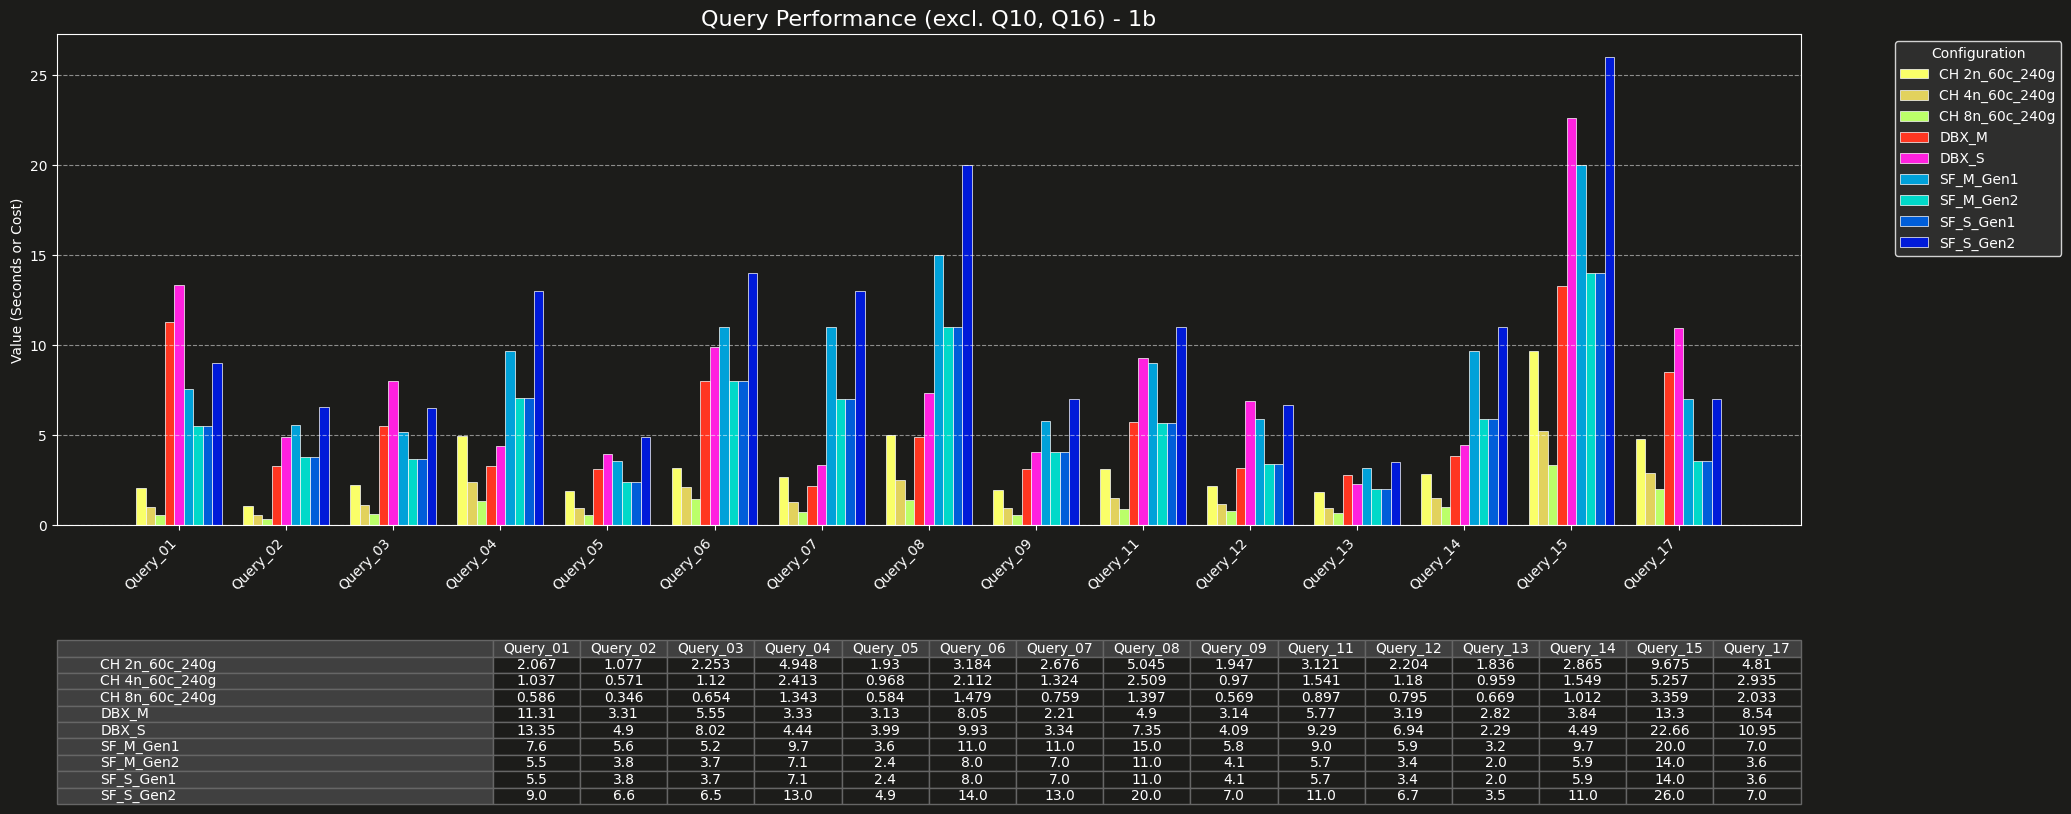
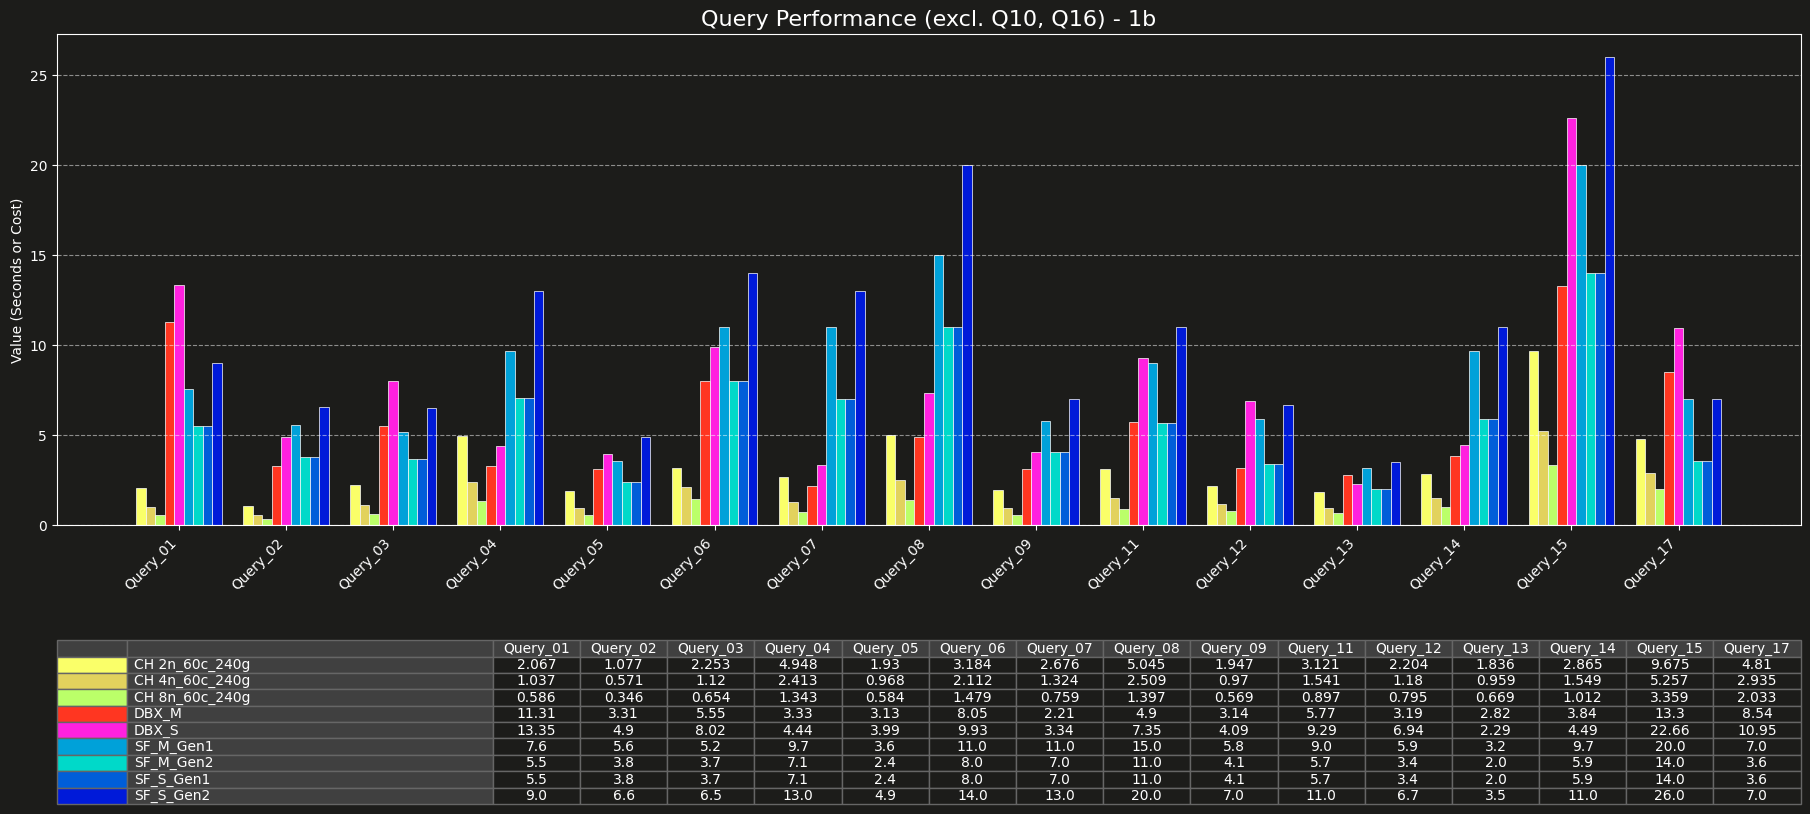
legend inside table

diff --git a/charts/main.py b/charts/main.py
@@ -372,12 +372,12 @@ def generate_chart_and_table(df_filtered, title, output_filename_base, queries_t
     ax_chart.tick_params(axis='y', colors='white')
 
     ax_chart.set_title(title, fontsize=16, color='white')
-    legend = ax_chart.legend(title='Configuration', bbox_to_anchor=(1.05, 1), loc='upper left')
-    legend.get_title().set_color('white')
-    for text in legend.get_texts():
-        text.set_color('white')
-    legend.get_frame().set_facecolor('#333333') # Darker background for legend box
-    legend.get_frame().set_edgecolor('white')
+    # legend = ax_chart.legend(title='Configuration', bbox_to_anchor=(1.05, 1), loc='upper left') # Legend removed
+    # legend.get_title().set_color('white')
+    # for text in legend.get_texts():
+    #     text.set_color('white')
+    # legend.get_frame().set_facecolor('#333333') # Darker background for legend box
+    # legend.get_frame().set_edgecolor('white')
 
     # --- Table creation (uses a new axis area) ---
     ax_table_area = fig.add_subplot(gs[1]) # Axis for the table
@@ -393,44 +393,78 @@ def generate_chart_and_table(df_filtered, title, output_filename_base, queries_t
     row_labels = pivot_df.index.tolist()
     col_labels = pivot_df.columns.tolist()
 
-    # Add a blank column header for the row labels column
-    table_col_labels_with_header = [''] + col_labels 
+    # Add column headers: one for color swatch (empty), one for row labels (empty), then data col_labels
+    table_col_labels_with_header = ['', ''] + col_labels
 
     the_table = Table(ax_table_area, bbox=[0, 0, 1, 1]) # Table fills its allocated subplot area
     the_table.auto_set_font_size(False)
     the_table.set_fontsize(9)
 
     num_table_rows = len(row_labels) + 1 # +1 for header
-    num_table_cols = len(table_col_labels_with_header)
+    # num_table_cols = len(table_col_labels_with_header) # Recalculate based on new structure
 
     cell_height = 1.0 / num_table_rows
-    # Define widths for columns - give more space to row labels if needed
-    # Example: first column (row labels) gets 20% of width, rest share remaining 80%
-    col_widths = [0.25] + [(0.75 / len(col_labels))] * len(col_labels) 
-    if not col_labels: # Handle case with no data columns (e.g. for total charts)
-        col_widths = [1.0]
+    
+    # Define widths for columns:
+    swatch_col_width = 0.04  # Narrow column for color swatch
+    label_name_col_width = 0.21 # Width for the hardware_config name
+    num_data_cols = len(col_labels)
+    
+    if num_data_cols > 0:
+        remaining_width_for_data = 1.0 - swatch_col_width - label_name_col_width
+        data_col_individual_width = remaining_width_for_data / num_data_cols
+        col_widths = [swatch_col_width, label_name_col_width] + [data_col_individual_width] * num_data_cols
+    elif num_data_cols == 0 and ('total query' in title.lower()): # Total charts have one data column conceptually, but pivot_df might be empty of data cols
+        # For 'Total' charts, the single value is effectively the data. The 'col_labels' might be ['Total_Cost'] or ['Total_Performance']
+        # If pivot_df.columns was used for col_labels, it might be 1. Let's assume it's 1 data column for totals.
+        remaining_width_for_data = 1.0 - swatch_col_width - label_name_col_width
+        # Ensure remaining_width_for_data is not negative if label_name_col_width is too large
+        data_col_individual_width = max(0, remaining_width_for_data) 
+        col_widths = [swatch_col_width, label_name_col_width, data_col_individual_width]
+    else: # No data columns at all, e.g. if something went wrong or no queries_to_plot
+        col_widths = [swatch_col_width, 1.0 - swatch_col_width] # Swatch and full width for label name
+
+    num_table_cols = len(col_widths) # Update based on actual col_widths array
 
     table_header_color = '#404040' # Dark grey for header background
     table_edge_color = '#666666' # Lighter grey for cell edges
     table_text_color = 'white'
 
     # Add header row
-    for j, label in enumerate(table_col_labels_with_header):
-        cell = the_table.add_cell(0, j, col_widths[j], cell_height, text=label, loc='center', 
-                                  facecolor=table_header_color, edgecolor=table_edge_color)
-        cell.get_text().set_color(table_text_color)
+    for j, label_text in enumerate(table_col_labels_with_header):
+        # Ensure we don't try to access col_widths[j] if j >= len(col_widths)
+        # This can happen if table_col_labels_with_header has more items than col_widths implies (e.g. for Total charts)
+        if j < len(col_widths):
+            width_for_cell = col_widths[j]
+            cell = the_table.add_cell(0, j, width_for_cell, cell_height, text=label_text, loc='center',
+                                      facecolor=table_header_color, edgecolor=table_edge_color)
+            cell.get_text().set_color(table_text_color)
+        # else: print(f"Warning: Skipping header cell for index {j} due to col_width mismatch.")
 
     # Add data rows
-    for i, row_label in enumerate(row_labels):
-        # Row headers (first column of data rows)
-        cell = the_table.add_cell(i + 1, 0, col_widths[0], cell_height, text=row_label, loc='left', 
-                                  facecolor=table_header_color, edgecolor=table_edge_color)
-        cell.get_text().set_color(table_text_color)
-        # Data cells
+    for i, row_label_text in enumerate(row_labels):
+        # Column 0: Color Swatch
+        swatch_color = config_colors.get(row_label_text, '#808080') # Get color from pre-calculated dict
+        cell_swatch = the_table.add_cell(i + 1, 0, col_widths[0], cell_height, text='', loc='center',
+                                         facecolor=swatch_color, edgecolor=table_edge_color)
+        # cell_swatch.get_text().set_color(table_text_color) # No text in swatch cell
+
+        # Column 1: Row Label Text (hardware_config name)
+        # Use the same background color as other headers for consistency, or a different one if preferred
+        cell_label_text = the_table.add_cell(i + 1, 1, col_widths[1], cell_height, text=row_label_text, loc='left',
+                                             facecolor=table_header_color, edgecolor=table_edge_color)
+        cell_label_text.get_text().set_color(table_text_color)
+        cell_label_text.PAD = 0.02 # Add a bit of padding to the left of the text
+
+        # Data cells (starting from column 2)
         for j, val in enumerate(table_data[i]):
-            cell = the_table.add_cell(i + 1, j + 1, col_widths[j+1], cell_height, text=str(val), loc='center', 
-                                      facecolor='#1C1C1A', edgecolor=table_edge_color) # Cell background same as chart
-            cell.get_text().set_color(table_text_color)
+            # Ensure we don't try to access col_widths[j+2] if it's out of bounds
+            if (j + 2) < len(col_widths):
+                width_for_data_cell = col_widths[j+2]
+                cell_data = the_table.add_cell(i + 1, j + 2, width_for_data_cell, cell_height, text=str(val), loc='center',
+                                                 facecolor='#1C1C1A', edgecolor=table_edge_color) # Cell background same as chart
+                cell_data.get_text().set_color(table_text_color)
+            # else: print(f"Warning: Skipping data cell for row {i}, col {j+2} due to col_width mismatch.")
     
     ax_table_area.add_table(the_table)
     # --- End of table creation changes ---
